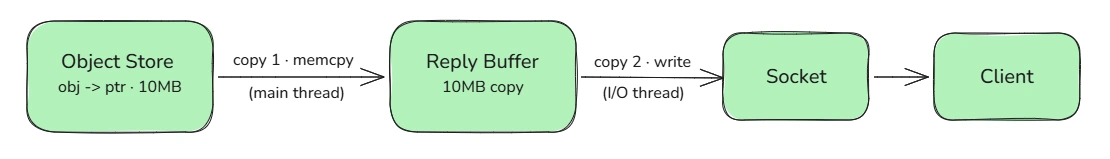
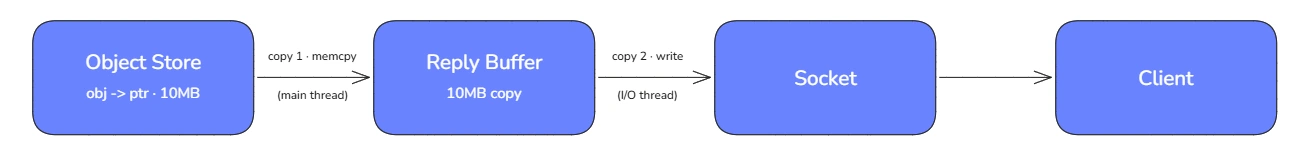
update images to valkey colors and add link to GET documentation

diff --git a/content/blog/2026-08-17-large-object-caching/index.md b/content/blog/2026-08-17-large-object-caching/index.md
@@ -17,7 +17,7 @@ Imagine you have a Valkey cluster humming along at 100K requests/second serving 
 
 ## The Problem
 
-Our baseline: 100K req/s total of 1KB `GET`s distributed across 256 connections, each pipelining 32 requests. Then we introduced 10 req/s of 10MB `GET`s as background traffic. Just 10 requests per second of large objects.
+Our baseline: 100K req/s total of 1KB [`GET`](https://valkey.io/commands/get/)s distributed across 256 connections, each pipelining 32 requests. Then we introduced 10 req/s of 10MB `GET`s as background traffic. Just 10 requests per second of large objects.
 
 Here's what happened to the 1KB request latency on Valkey 8.1:
 
